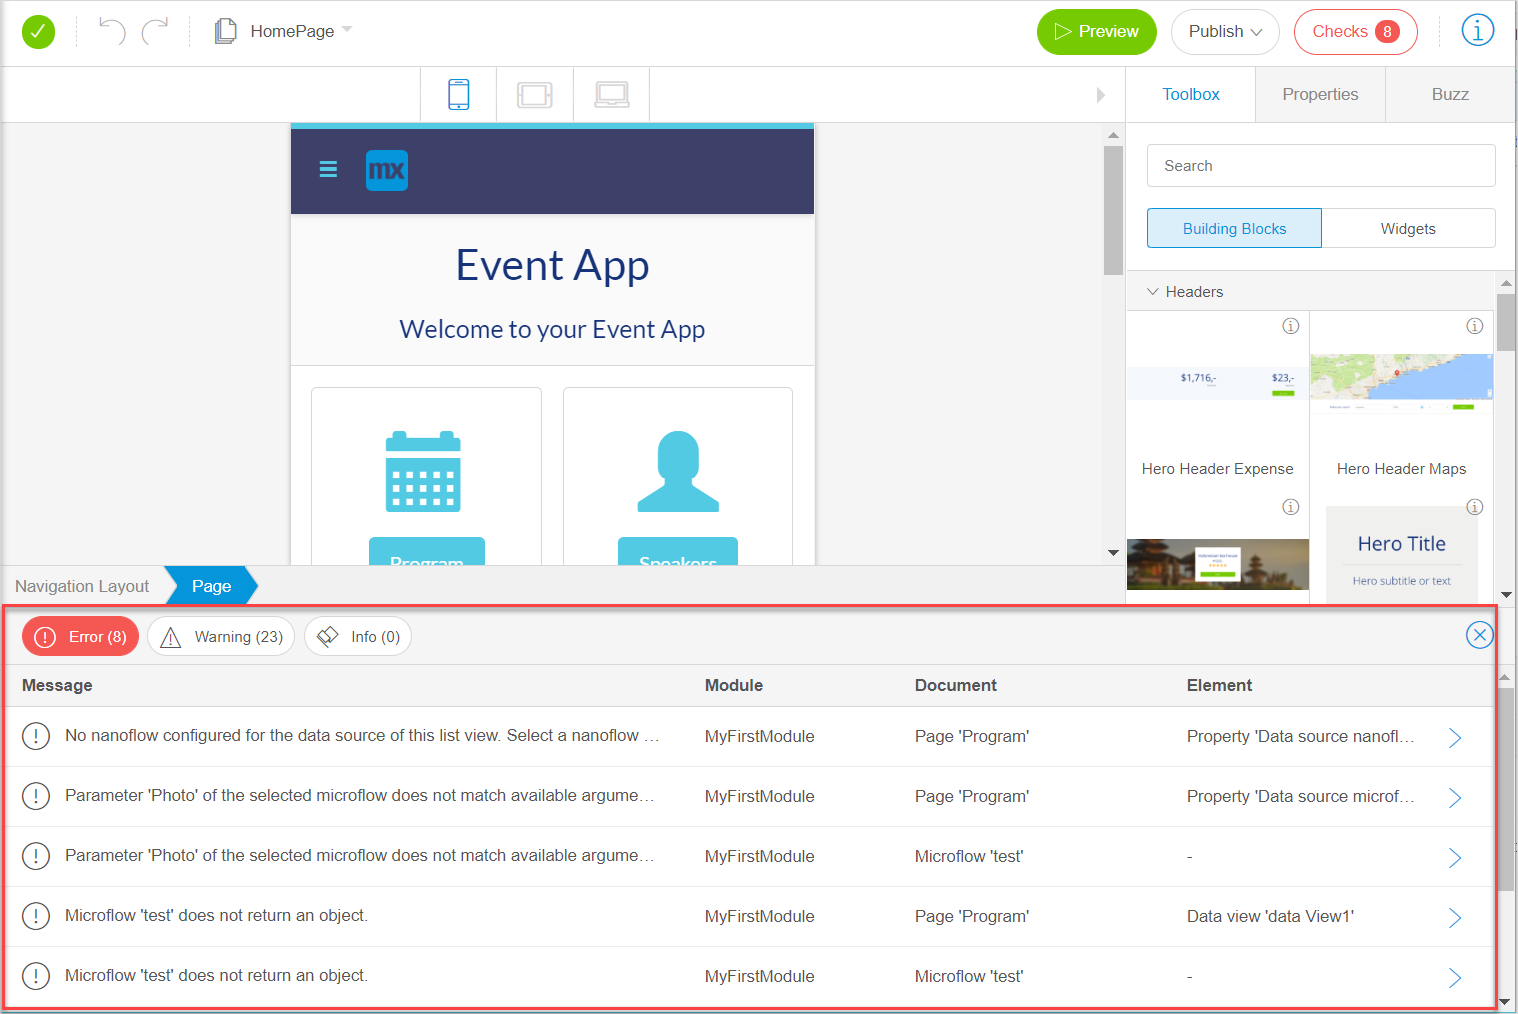
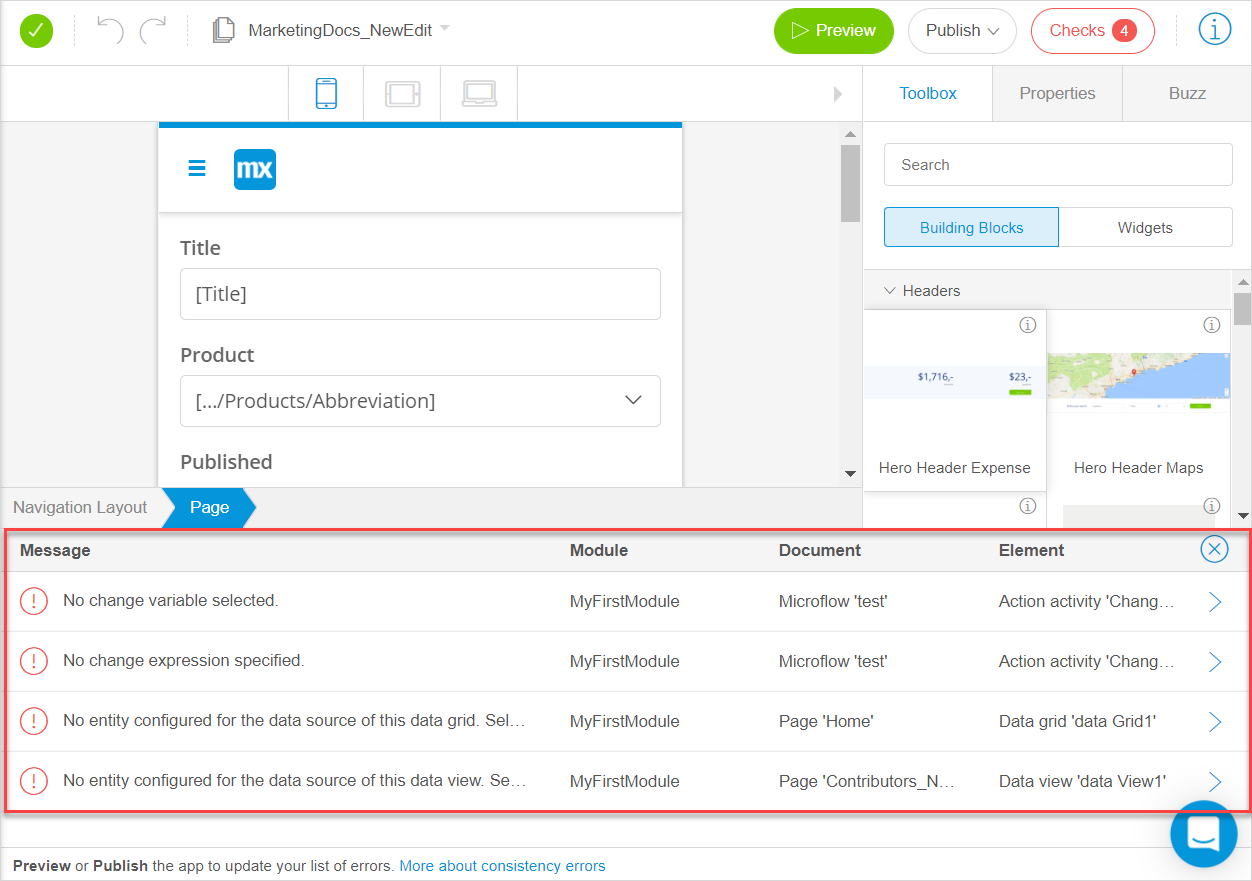
update checks

diff --git a/content/studio/checks.md b/content/studio/checks.md
@@ -7,7 +7,7 @@ tags: ["studio", "app viewing", "checks", "errors", "consistency errors"]
 
 ## 1 Introduction 
 
-When [publishing your app](publishing-app#publishing-your-app), Mendix Studio checks the app you created on [consistency errors](consistency-errors). If there are any, the app cannot be published, and you see the **Checks** button goes red with the number of errors indicated.
+When [previwing or publishing your app](publishing-app#publishing-your-app), Mendix Studio checks your app on [consistency errors](consistency-errors). If there are any, the app cannot be published, and you see the **Checks** button goes red with the number of errors indicated.
 
 ![](attachments/checks/checks-button.png)
 
@@ -15,9 +15,7 @@ When [publishing your app](publishing-app#publishing-your-app), Mendix Studio ch
 
 To display checks for your app and view the faulty elements in it, do the following:
 
-1. Click **Publish** in the top-right of Studio.
-
-2.  In the pop-up window, click **Update**.
+1. Click **Preview** or **Publish** > **Update** in the top-right of Studio. 
 
     ![](attachments/checks/publish-update.png)
 
@@ -30,49 +28,21 @@ To display checks for your app and view the faulty elements in it, do the follow
 
     ![](attachments/checks/checks-panel.png)
 
-5.  Click **Error**, **Warning** and **Info** buttons to manage what is displayed on the **Checks** panel (the types that are displayed are highlighted in red/orange/blue for **Error**/**Warning**/**Info** types correspondingly). For more information, see section [3.1 Types of Checks](#checks-types). 
-
-    ![](attachments/checks/checks-panel-different-colors.png)
-
-6.  To view the exact place and element that the error/warning/info refers to, click the corresponding row in the **Checks** panel (you can click any place of the row, the whole row is responsive),  and the element that contains faults will be displayed.
-
-    ![](attachments/checks/viewing-error.png)
+5.  To view the exact place and element that the error refers to, click the corresponding row in the **Checks** panel (you can click any place of the row, the whole row is responsive),  and the element that contains faults will be displayed.
 
 7. To close the panel, either click the close button in the top-right corner of the panel, or click **Checks** in the top-right corner of Studio. 
 
 {{% alert type="info" %}}
 
-If there are no consistency errors, the app will be published, and the **Checks** panel will be empty. That means that if there are no consistency errors, **Warnings** and **Info** will not be updated and displayed, and you will see an empty **Checks** panel.
+If there are no consistency errors, the app will be published, and the **Checks** panel will be empty. 
 
 {{% /alert %}}
 
-## 3 Checks Types and the Checks Panel
+## 3 Checks Panel Overview {#checks-panel-overview}
 
-The **Checks** panel consist of three buttons indicating the type of a check and a table with details on each check. 
+### {#checks-panel-overview}
 
-### 3.1 Types of Checks {#checks-types}
-
-There are three types of checks in Studio. Each button is colored differently at the top of the **Checks** panel and has its own icon.
-
-![](attachments/checks/button-colors.png)
-
-The description of the types of checks is represented in the table below.
-
-| Type    | Button color | Icon                                     | Function                                                     |
-| ------- | ------------ | ---------------------------------------- | ------------------------------------------------------------ |
-| Error   | Red          | ![](attachments/checks/error-icon.png)   | Consistency errors that prevent your app from functioning in a correct way and being published (for example, if you do not specify an entity for the data view, your app cannot function correctly). For more information on consistency errors, see [Consistency Errors](consistency-errors) |
-| Warning | Orange       | ![](attachments/checks/warning-icon.png) | Errors that are not critical, so you can publish your app having warnings. However, it is highly recommended to take action based on the warnings, because your app has logical gaps (for example, clicking a button does nothing). |
-| Info    | Blue         | ![](attachments/checks/info-icon.png)    | This type shows information on features that will be deleted from the user interface soon (deprecated). This does not affect the app now, but may cause problems when upgrading to the next version. |
-
-{{% alert type="info" %}}
-
-The button is colored only when the corresponding type of the check is enabled for the panel. If the type is disabled, it is transparent.
-
-{{% /alert %}}
-
-### 3.2 Checks Panel Overview {#checks-panel-overview}
-
-The **Checks** panel is represented as a table with buttons on top, and a table underneath them. The buttons control the information that is displayed in the table. For more information, see section [3.1 Types of Checks](#checks-types). 
+The **Checks** panel is represented as a table and shows you a list of consistence errors that prevent your app from functioning in a correct way and being published (for example, if you do not specify an entity for the data view, your app cannot function correctly). For more information on consistency errors, see [Consistency Errors](consistency-errors). 
 
 {{% alert type="info" %}}
 
@@ -84,10 +54,10 @@ The information displayed in the table of the **Checks** panel is represented be
 
 | Item     | Description                                                  |
 | -------- | ------------------------------------------------------------ |
-| Message  | Contains an explanation of the error/warning/info. In front of the message you can see an icon indicating the type of the check. For more information, see section [3.1 Types of Checks](#checks-types). |
-| Module   | Indicates the module where the error/warning/info is found.  |
-| Document | Indicates the place of your app where the error/warning/info is found (for example, a page, a microflow). |
-| Element  | Indicated the exact element that is faulty (button, activity, etc. ). |
+| Message  | Contains an explanation of the error.                        |
+| Module   | Indicates the module where the error is found.               |
+| Document | Indicates the place of your app where the error is found (for example, a page, a microflow). |
+| Element  | Indicated the exact element that is faulty (button, activity, etcetera ). |
 
 ## 4 Read More
 
